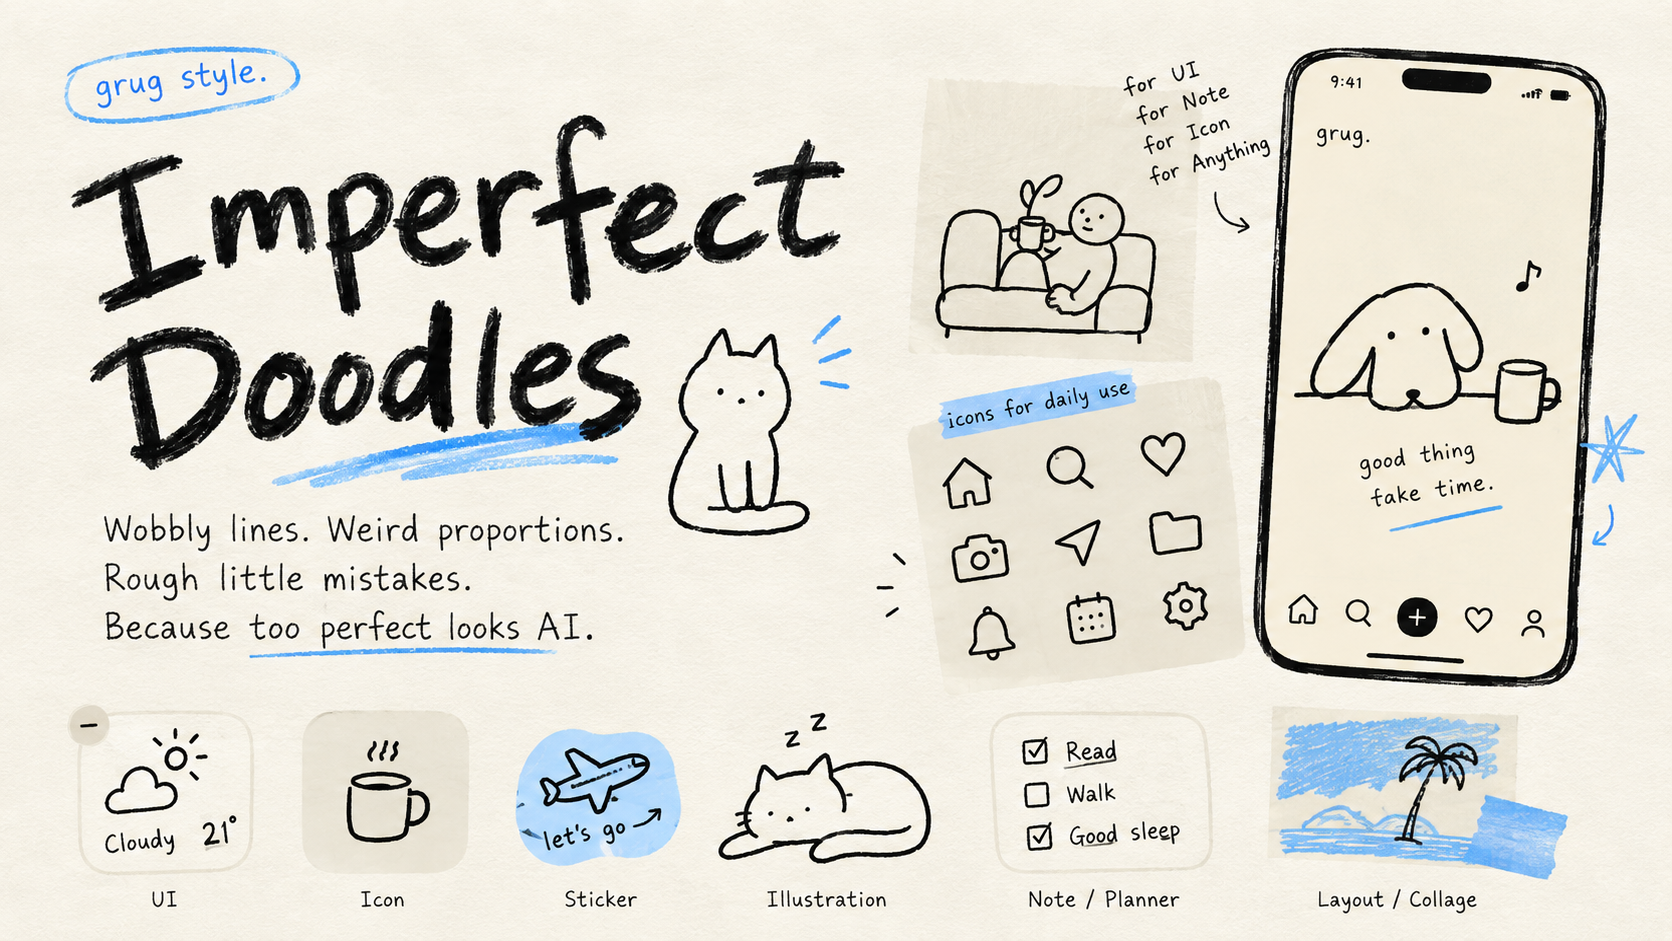
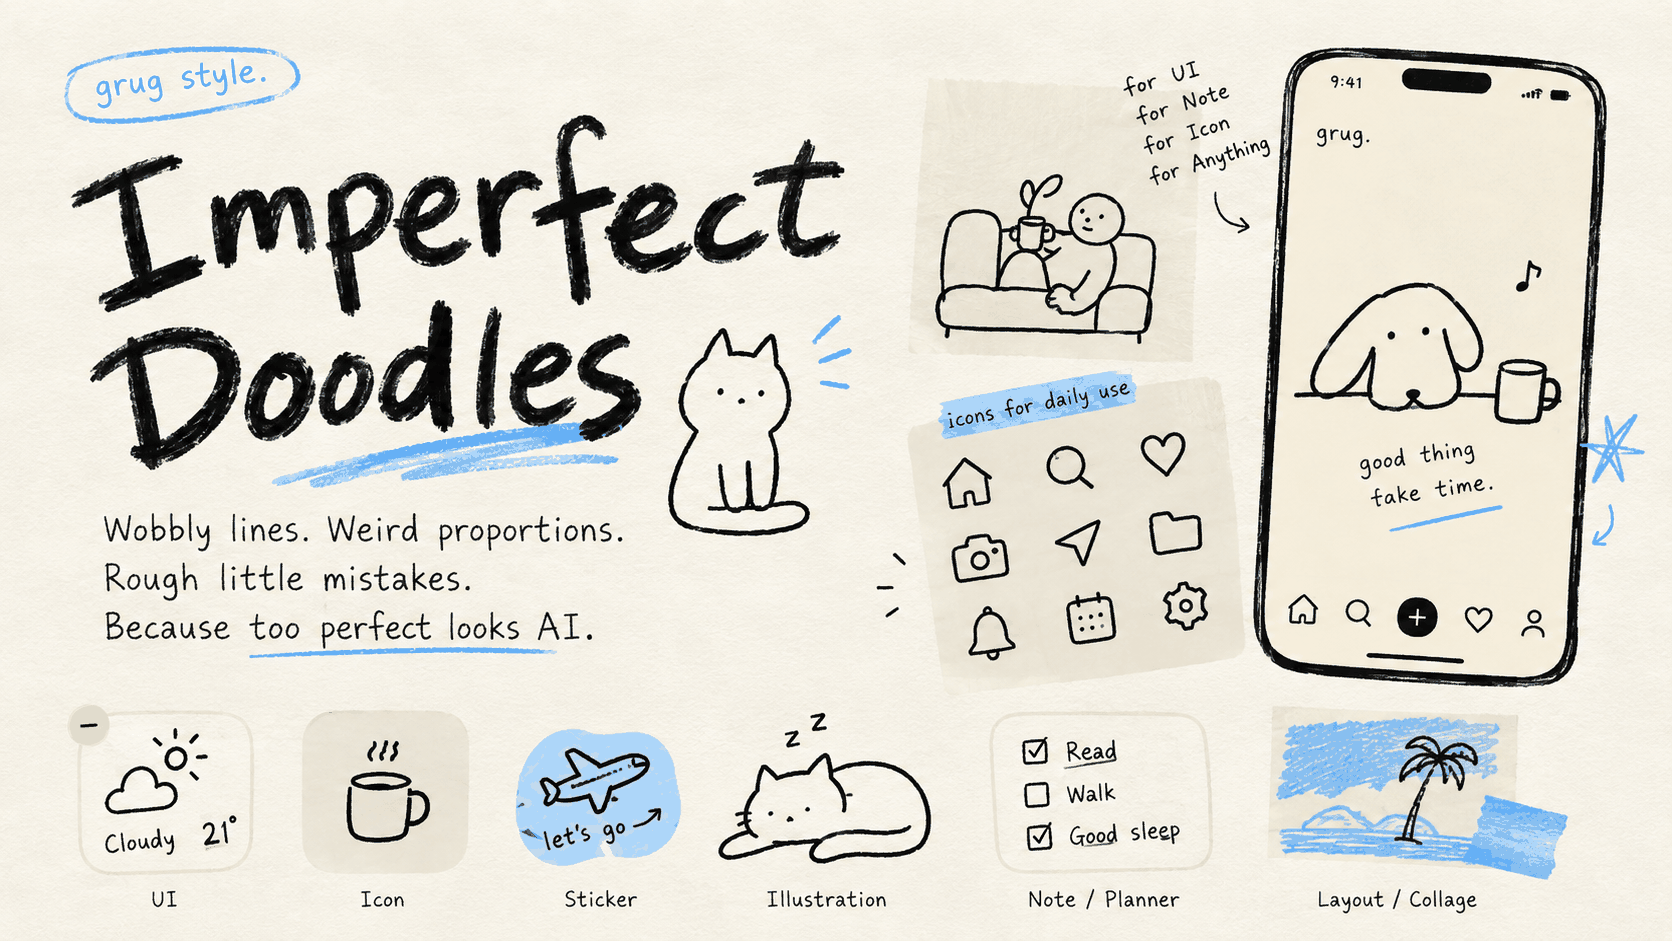
Update single-stroke outline rules

Changed region(s): [[0.2177, 0.4623, 0.311, 0.4931], [0.0933, 0.0616, 0.1555, 0.0925], [0.8397, 0.8013, 0.8708, 0.8321]]

diff --git a/SKILL.md b/SKILL.md
@@ -103,6 +103,39 @@ Keep the imperfection visible but restrained.
 
 ---
 
+# 2.1 Single-Stroke Outline Rule
+
+This rule is critical, especially for image-to-image transformation.
+
+Each visible edge should be represented by **one single contour only**.
+
+Do not preserve a clean vector contour and then add another loose hand-drawn contour on top of it.
+Do not create a trace-over effect.
+Do not use doubled outlines, parallel outlines, ghost outlines, offset sketch lines, or repeated border tracing to fake a handmade feeling.
+
+A hand-drawn look should come from the **single contour itself** being imperfect:
+
+- slight wobble
+- uneven pressure
+- minor asymmetry
+- small positional error
+- awkward proportion
+
+It should NOT come from adding a second contour.
+
+Hard rule:
+
+**One form = one contour.**  
+**One edge = one stroke.**  
+**Redraw, don't overlay.**
+
+If emphasis is needed, vary stroke weight slightly instead of adding a second parallel line.
+
+The final result should feel like a person drew the shape once,
+not like the model traced the same edge twice.
+
+---
+
 # 3. Awkward Proportions Are Good
 
 Objects should feel intuitively drawn rather than geometrically constructed.
@@ -419,6 +452,29 @@ not the underlying function.
 
 ---
 
+# 13.1 Image-to-Image Conversion Rule
+
+When transforming an existing image, icon, illustration, or UI into Imperfect Doodles:
+
+- preserve the original structure and meaning
+- **replace** precise vector edges with single imperfect hand-drawn contours
+- simplify contours when needed
+- keep one visible line per edge
+
+Do not:
+
+- keep the original vector outline and add a sketch line on top
+- create two parallel contour lines
+- create ghosted or offset outlines
+- simulate sketchiness through repeated tracing
+- leave both the original clean line and the handmade line visible
+
+The transformation should look **redrawn**, not traced over.
+
+**Hand-drawn feeling must come from one imperfect contour, not from a second contour.**
+
+---
+
 # 14. Before / After Logic
 
 ## Before
@@ -499,6 +555,23 @@ Fix:
 Redraw each icon separately with subtle differences,
 while keeping overall consistency.
 
+## Failure 7 — Double-line outline / ghost tracing
+
+Problem:
+The model keeps the original clean contour, then adds another sketchy line around or beside it.
+Some models also use two parallel contour lines to imitate sketchiness.
+
+Why this is wrong:
+It creates a duplicated, ghosted, traced-over appearance instead of a relaxed human-drawn line.
+
+Fix:
+Use only one visible contour per shape.
+Redraw the original contour itself as a slightly imperfect single stroke.
+
+Do not stack a sketch line on top of a vector line.
+
+**Replace the line — do not decorate the line.**
+
 ---
 
 # Trigger Examples
@@ -552,7 +625,9 @@ Use icons such as:
 ## Change
 
 - redraw each icon by hand
-- introduce subtle line wobble
+- replace the original vector contour instead of layering on top of it
+- use a single visible contour per edge
+- introduce subtle line wobble inside that single contour
 - make proportions slightly uneven
 - use black / charcoal line work
 
@@ -566,6 +641,9 @@ The icons should still work as UI icons.
 - excessive color
 - different styles across icons
 - perfect vector geometry
+- double-line outlines
+- parallel sketch contours
+- keeping the original vector edge under a second hand-drawn edge
 
 ---
 

diff --git a/README.md b/README.md
@@ -67,6 +67,8 @@ The transformation rule:
 - keep the original information architecture and content hierarchy
 - keep navigation, cards, and task structure recognizable
 - redraw borders, icons, dividers, and selected typography with relaxed hand-drawn lines
+- replace clean vector contours rather than adding a second sketch contour
+- use one visible line per edge; never use double-line or ghost tracing
 - allow small spacing and proportion irregularities
 - keep the overall interface calm, readable, and usable
 
@@ -91,6 +93,21 @@ Shortcut:
 ```text
 #ImperfectDoodles
 ```
+
+## Important — Single-stroke outlines
+
+For image-to-image transformation, **do not keep the original vector outline and add a second sketch line on top of it**.
+
+The handmade feeling should come from **one imperfect contour**:
+
+- one form = one contour
+- one edge = one stroke
+- no double-line outlines
+- no parallel sketch contours
+- no ghost / offset tracing
+- redraw, don't overlay
+
+> **Hand-drawn feeling must come from one imperfect contour, not from a second contour.**
 
 ## Core principle
 
